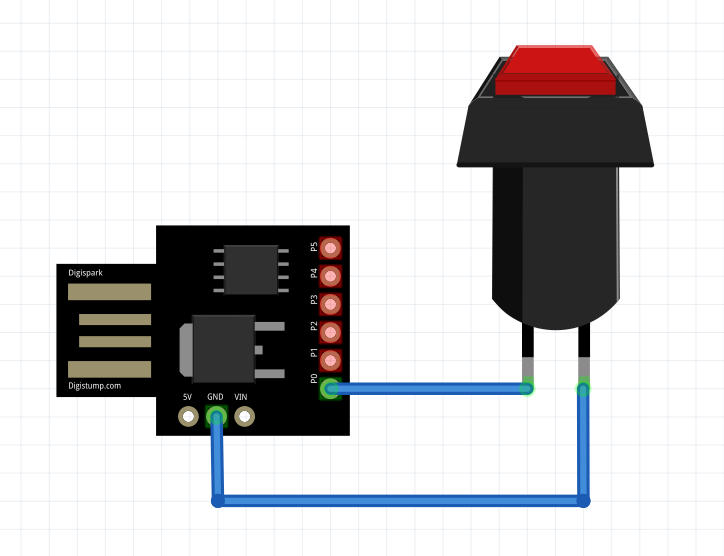
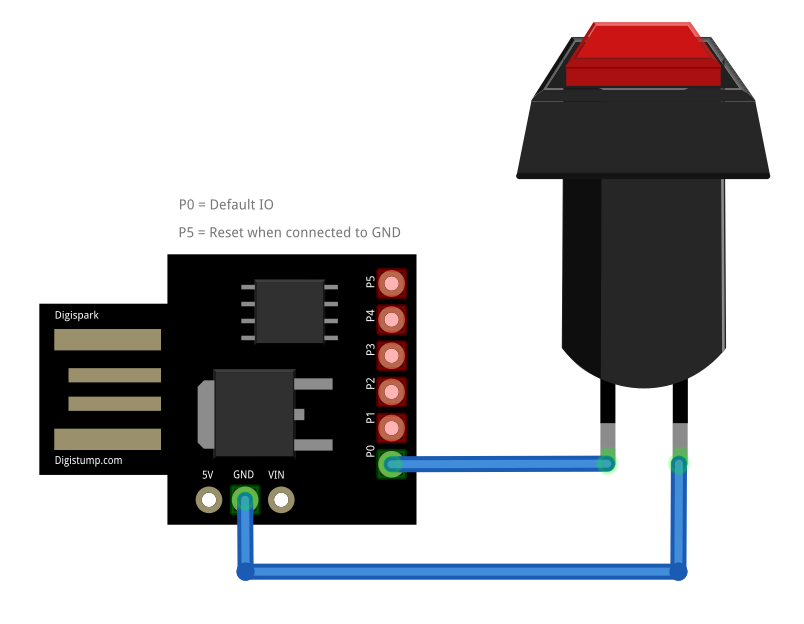
Reboot (software) via long button press
- new blink() function
- new reboot() function
- new Reboot (software) function via button press longer than 5 seconds
- README updated
- Wiring updated

Changed region(s): [[0.0304, 0.0306, 0.9724, 0.9478], [0.2127, 0.3058, 0.3343, 0.3363]]

diff --git a/README.md b/README.md
@@ -17,11 +17,12 @@ The HID-Button acts as an automatic keyboard replacement which types credentials
 - Extract zip archive "DigisparkKeyboard-master-fixed.zip" to C:\Users\<YOURUSERNAME>\AppData\Local\Arduino15\libraries
 - Extract the content of _DigisparkKeyboard-master-fixed.zip_ to __C:\Users\<YOURUSERNAME>\AppData\Local\Arduino15\libraries__ before compiling
 - Before uploading the INO sketch to the board you must change in [HID-Button.ino](./HID-Button.ino) the login credentials USER|PASSWORD pairs to the desired real credentials
-- optional: if a reset is needed for your board you can connect _PB5_ with a pushbutton to _GND_
+- optional: if a hardware reset is needed for your board you can connect _PB5_ with a pushbutton to _GND_ (but recommended is to use the builtin software reboot with button press)
 
 ## Usage
 - press the button shorter than 1 second to type credentials pair 1 as login
-- press the button longer than 1 second to type credentials pair 2 as login
+- press the button between 1 and 5 seconds to type credentials pair 2 as login
+- press the button longer than 5 seconds to reboot the HID-Button
 
 ## License / Copyright
 The HID-Button is licensed under [GPL-2.0-only](./LICENSE).
